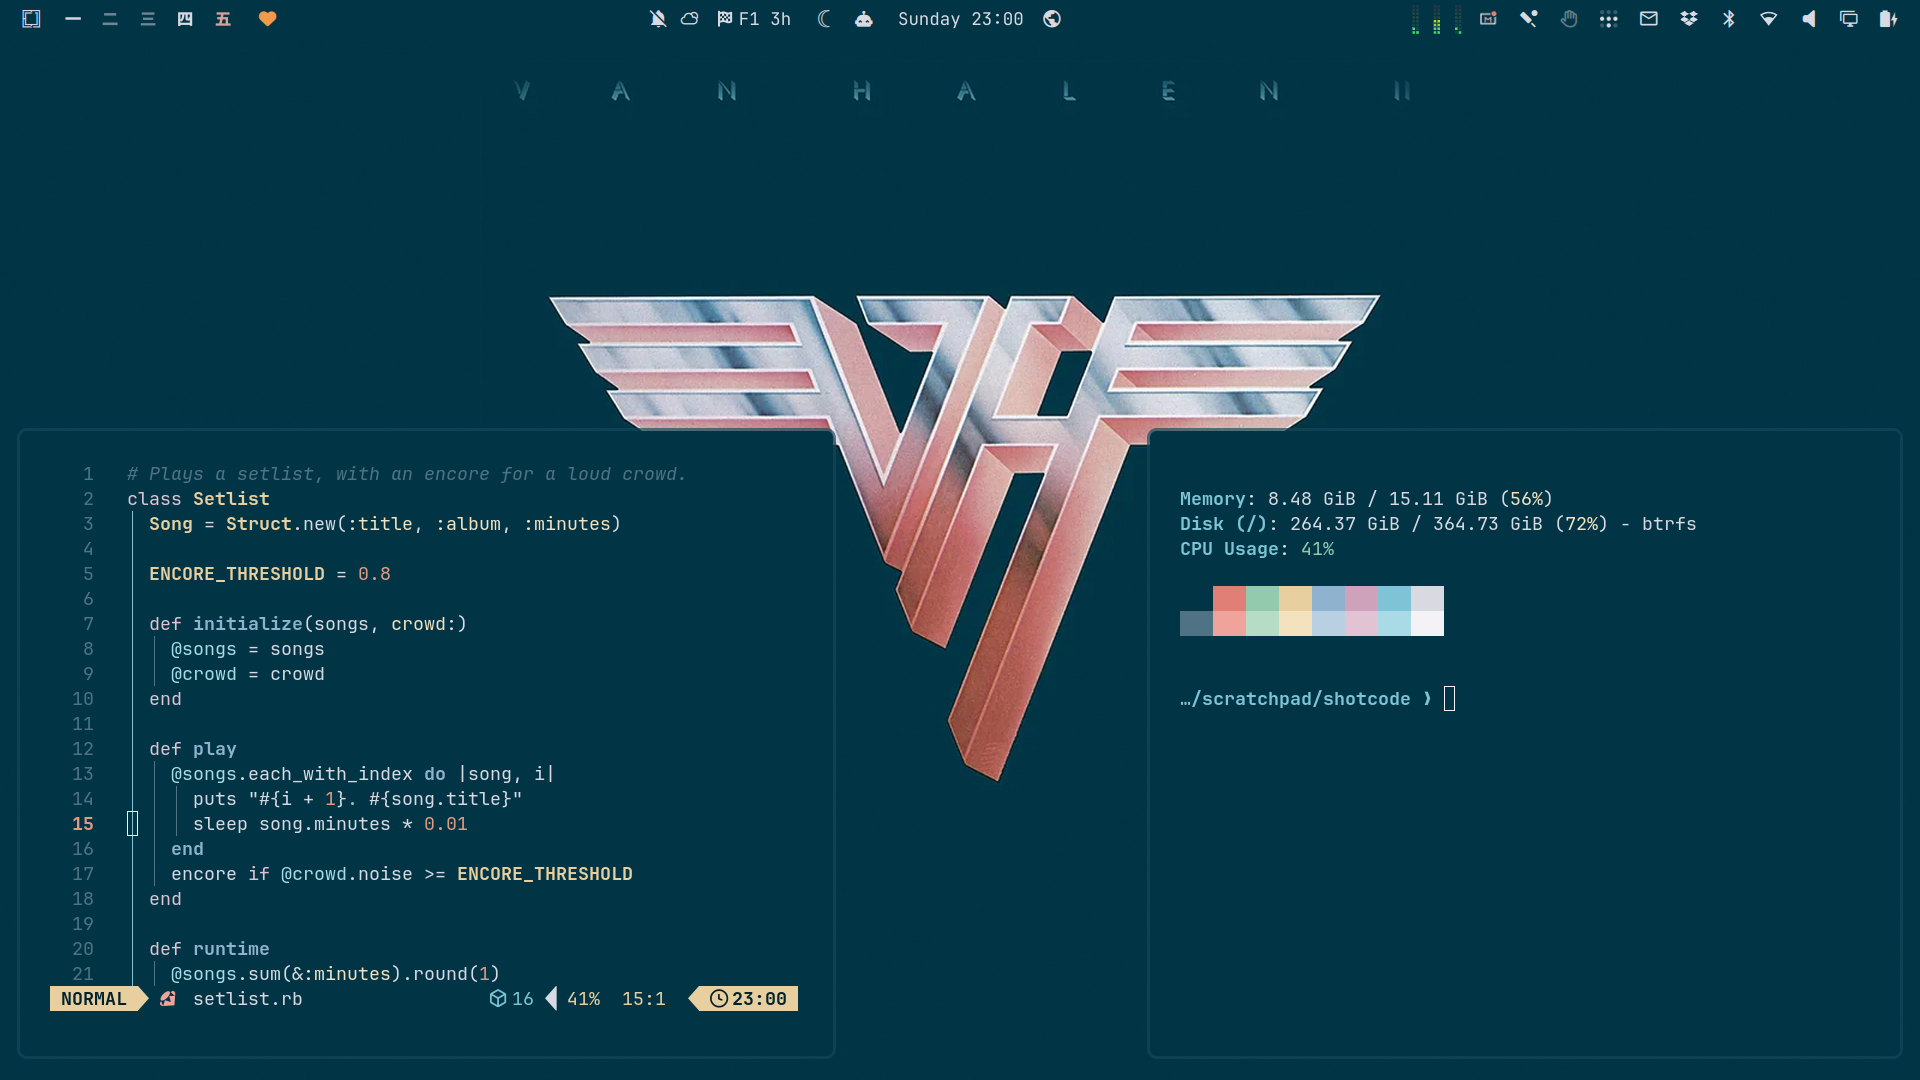
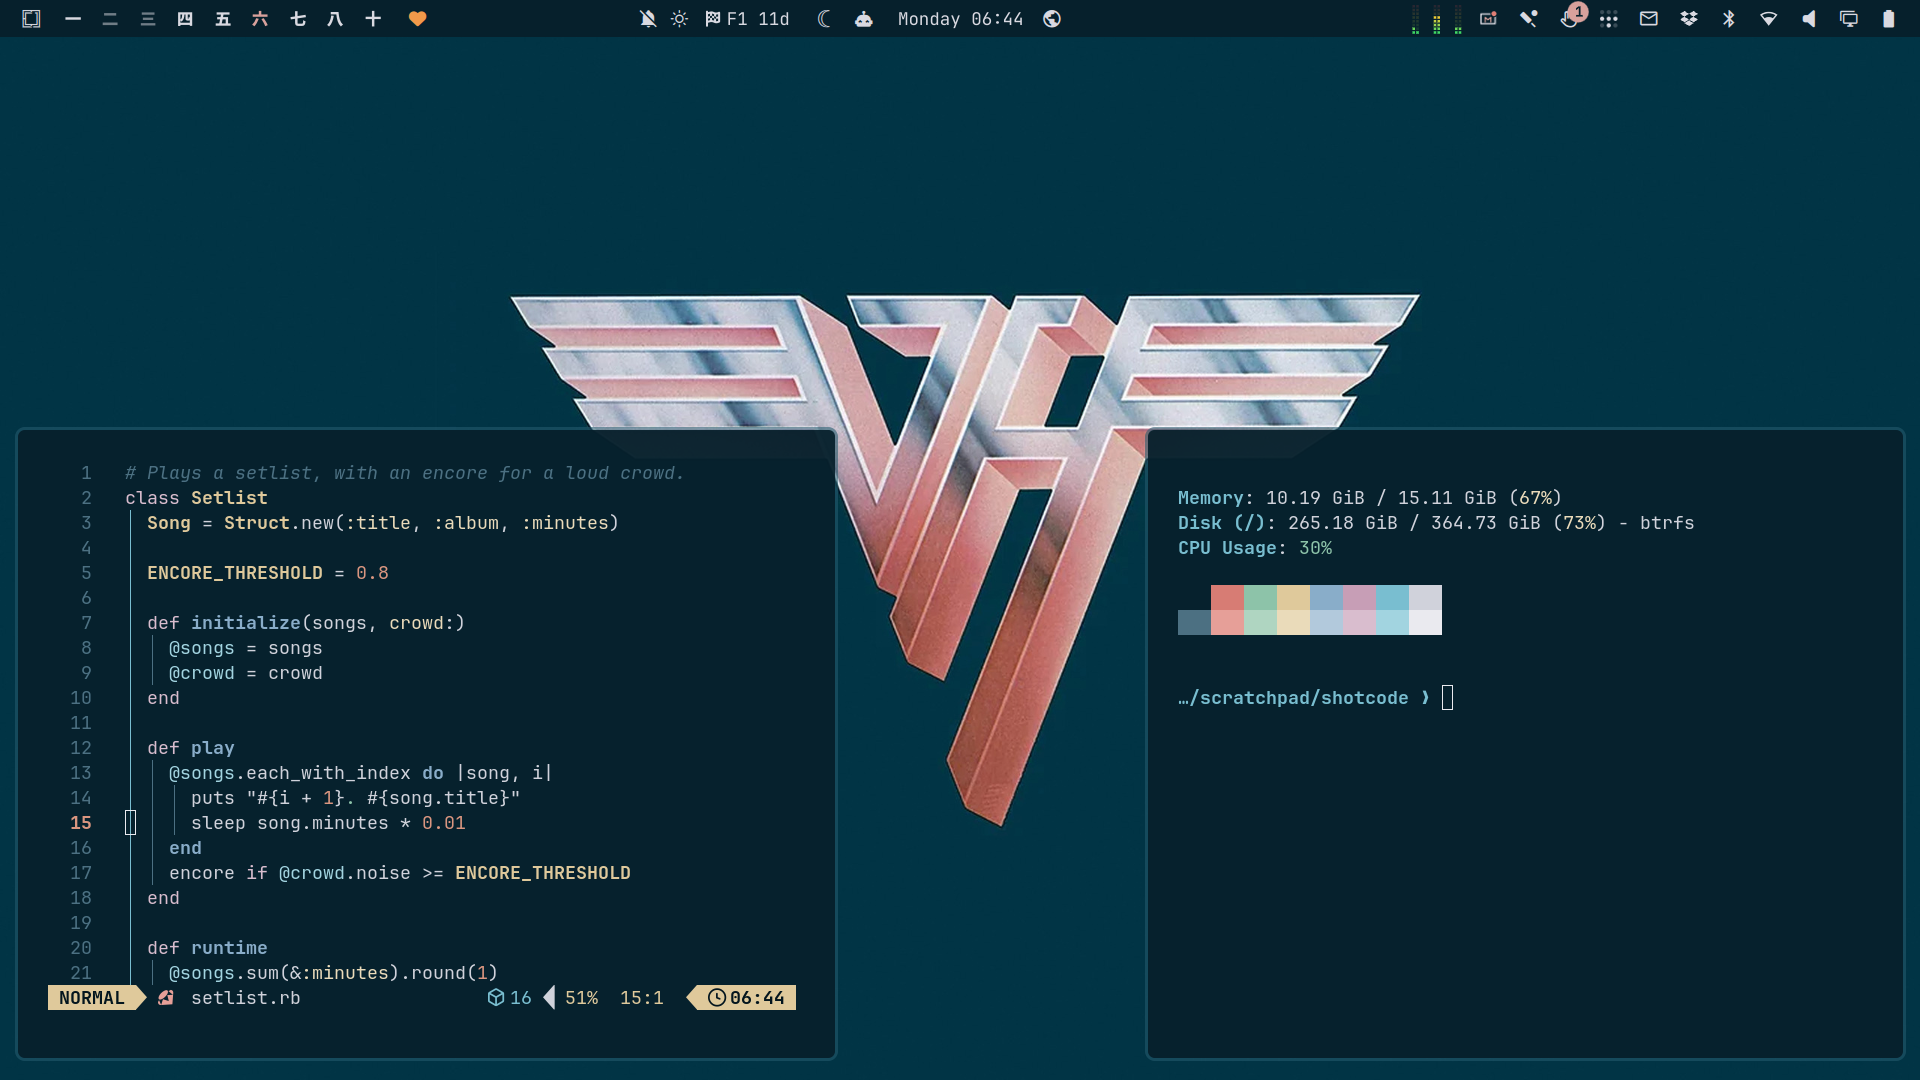
Windows sit a shade deeper than the wallpaper
The window background is now #06202c, the sleeve teal pulled down
towards the slate shadow in the logo's chrome, so windows lift off the
wallpaper. The background scale and inactive border follow it, and the
preview and README show the new palette.

diff --git a/README.md b/README.md
@@ -1,6 +1,6 @@
 # Van Halen II
 
-An [Omarchy](https://omarchy.org/) theme taken from the cover of Van Halen's second album, *Van Halen II* (Warner Bros., 1979). The background is the sleeve's deep teal. Text is the silver of the chrome VH logo, and the accent is the logo's pink.
+An [Omarchy](https://omarchy.org/) theme taken from the cover of Van Halen's second album, *Van Halen II* (Warner Bros., 1979). The wallpaper is the sleeve's deep teal, and windows sit a shade deeper so they lift off it. Text is the silver of the chrome VH logo, and the accent is the logo's pink.
 
 ![Van Halen II](preview.png)
 
@@ -30,7 +30,7 @@ Every colour on the sleeve was sampled from the cover. Green and yellow do not a
 
 | Role | Colour | Source |
 |------|--------|--------|
-| Background | `#013546` | The sleeve |
+| Background | `#06202c` | The sleeve teal pulled down towards the slate shadow in the logo's chrome |
 | Foreground | `#d9d9e1` | The logo's chrome highlights |
 | Accent | `#d8a19c` | The logo's pink faces |
 | Cyan | `#7ec4d6` | The title lettering |
@@ -38,7 +38,7 @@ Every colour on the sleeve was sampled from the cover. Green and yellow do not a
 | Red | `#e07f76` | The logo's shaded pink |
 | Brown | `#a85f58` | The logo's darkest pink |
 
-Window borders run from the pink to the silver at 45 degrees, like the bevels on the logo. The full set is in [`colors.toml`](colors.toml).
+The sleeve itself is `#013546`, and the wallpapers keep it. Window borders run from the pink to the silver at 45 degrees, like the bevels on the logo. Inactive windows keep a thin rim of the selection teal. The full set is in [`colors.toml`](colors.toml).
 
 ## Licence
 
